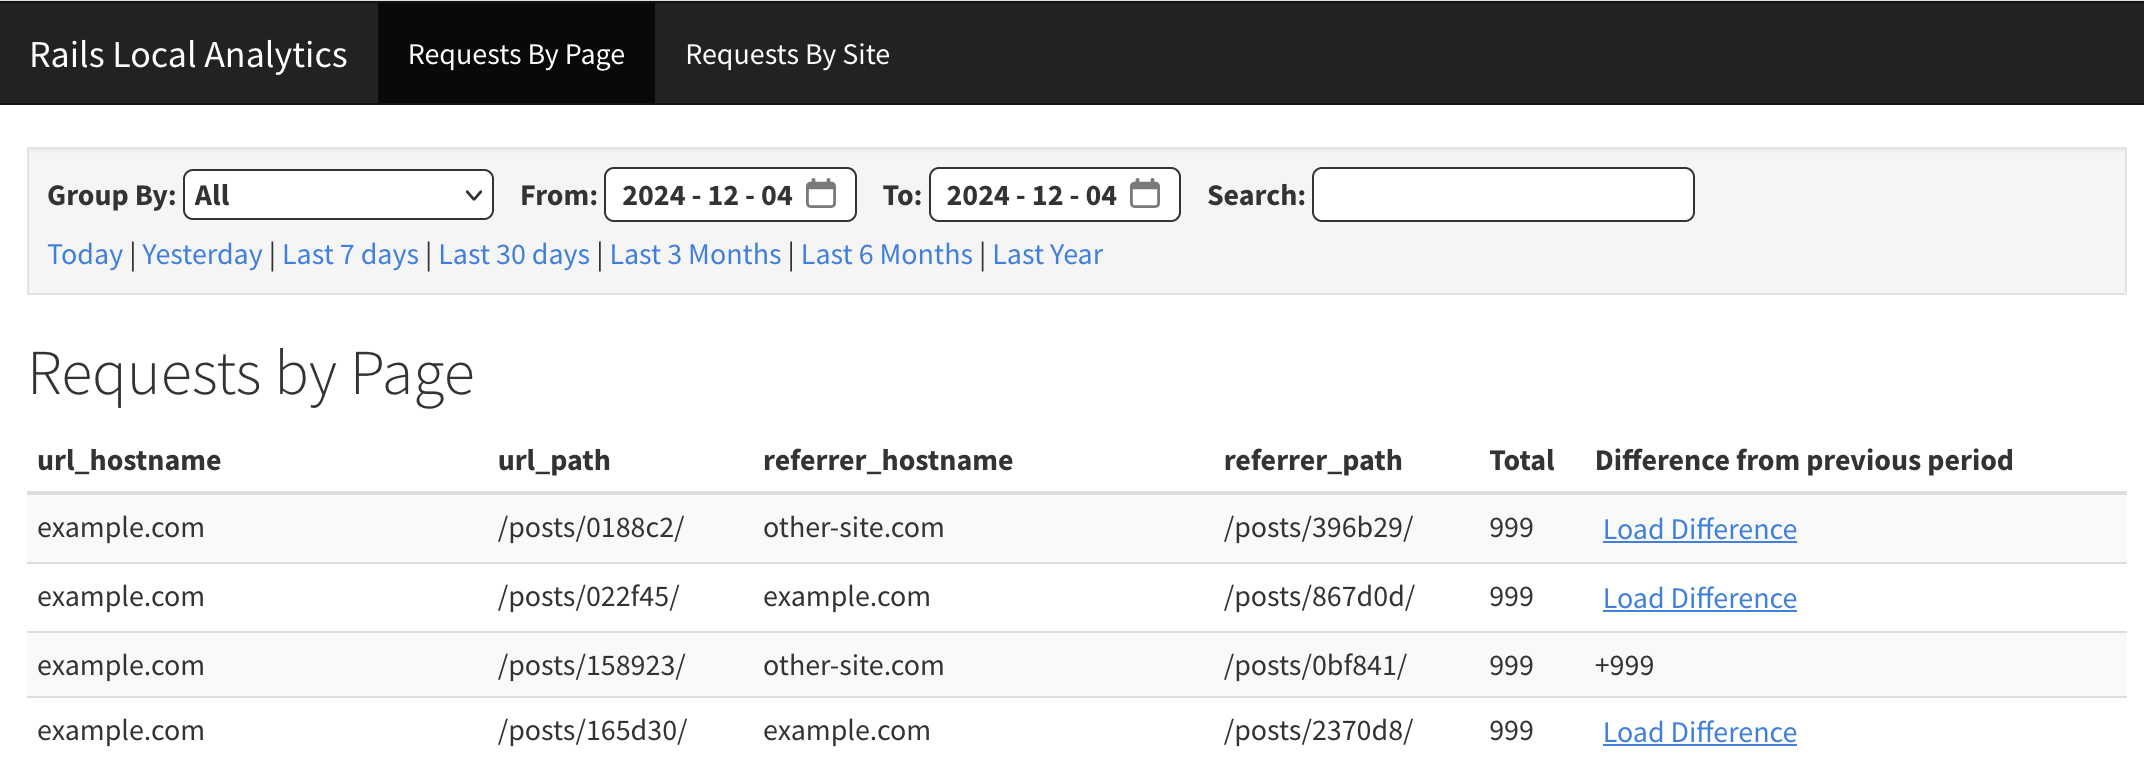
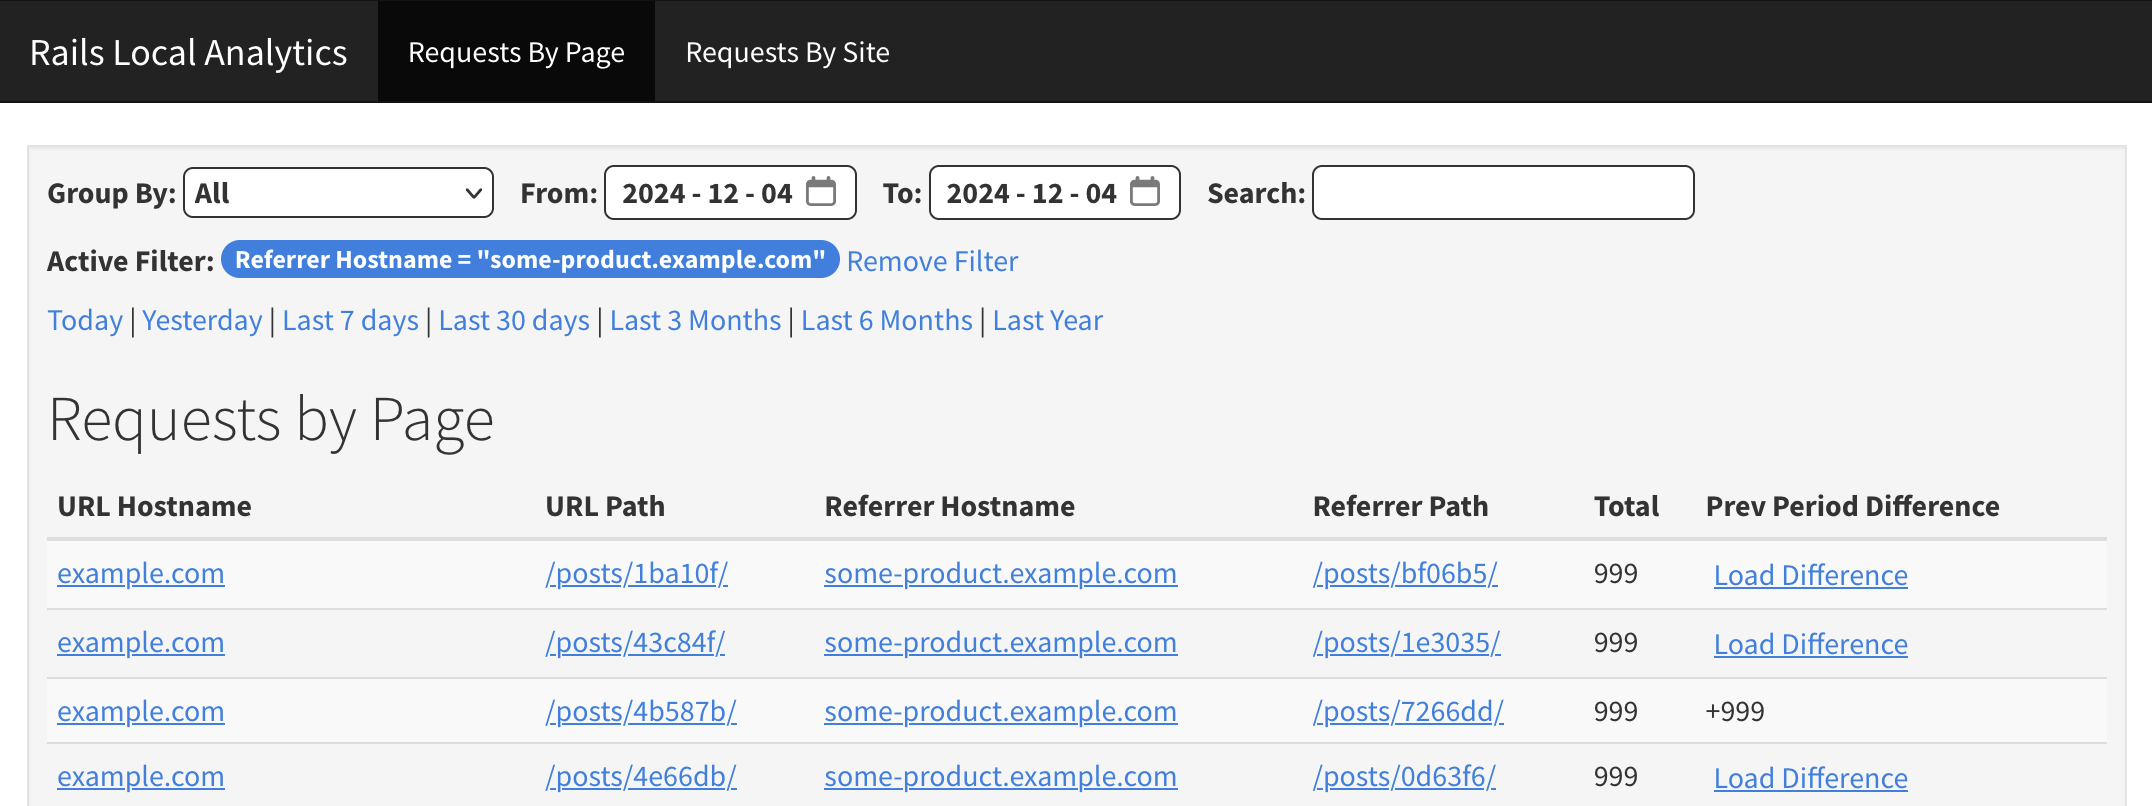
Add ability to filter on specific field/value combos (#11)

diff --git a/spec/request/dashboard_controller_spec.rb b/spec/request/dashboard_controller_spec.rb
@@ -66,12 +66,55 @@ RSpec.describe RailsLocalAnalytics::DashboardController, type: :request do
       expect(response.status).to eq(200)
     end
 
-    it "renders with group_by param" do
-      get rails_local_analytics.tracked_requests_path(type: :site, group_by: "platform")
-      expect(response.status).to eq(200)
+    context "params[:group_by]" do
+      it "raises error when field name is invalid" do
+        expect {
+          get rails_local_analytics.tracked_requests_path(type: :site, filter: "id==some-value")
+        }.to raise_error(ArgumentError)
+      end
 
-      get rails_local_analytics.tracked_requests_path(type: :page, group_by: "referrer_path")
-      expect(response.status).to eq(200)
+      it "renders" do
+        get rails_local_analytics.tracked_requests_path(type: :site, group_by: "platform")
+        expect(response.status).to eq(200)
+
+        get rails_local_analytics.tracked_requests_path(type: :page, group_by: "referrer_path")
+        expect(response.status).to eq(200)
+      end
+    end
+
+    context "params[:filter]" do
+      it "raises error when field name is invalid" do
+        expect {
+          get rails_local_analytics.tracked_requests_path(type: :site, filter: "id==some-value")
+        }.to raise_error(ArgumentError)
+      end
+
+      it "filters on specific field/value combos" do
+        klass = TrackedRequestsByDaySite
+
+        col = klass.display_columns.first
+
+        klass.create!(
+          day: Date.today,
+          col => "some-value",
+          platform: "foo",
+        )
+
+        klass.create!(
+          day: Date.today,
+          col => "foo",
+        )
+
+        klass.create!(
+          day: Date.today,
+          col => "some-value",
+          platform: "bar",
+        )
+
+        get rails_local_analytics.tracked_requests_path(type: :site, filter: "#{col}==some-value")
+        expect(response.status).to eq(200)
+        expect(assigns(:results).map(&:first)).to eq(["some-value", "some-value"])
+      end
     end
   end
 

diff --git a/app/controllers/rails_local_analytics/dashboard_controller.rb b/app/controllers/rails_local_analytics/dashboard_controller.rb
@@ -18,7 +18,7 @@ module RailsLocalAnalytics
       end
 
       if params[:group_by].present? && !@klass.display_columns.include?(params[:group_by])
-        params[:group_by] = nil
+        raise ArgumentError
       end
 
       if params[:start_date].present?
@@ -100,6 +100,16 @@ module RailsLocalAnalytics
         tracked_requests = tracked_requests
           .limit(PER_PAGE_LIMIT)
           .offset(PER_PAGE_LIMIT * (pagination_page_number-1))
+
+        if params[:filter].present?
+          col, val = params[:filter].split("==")
+
+          if @klass.display_columns.include?(col)
+            tracked_requests = tracked_requests.where(col => val)
+          else
+            raise ArgumentError
+          end
+        end
       end
 
       if where_conditions

diff --git a/CHANGELOG.md b/CHANGELOG.md
@@ -2,6 +2,7 @@
 
 ### Unreleased
 - [View Diff](https://github.com/westonganger/rails_local_analytics/compare/v0.2.0...master)
+- [#11](https://github.com/westonganger/rails_local_analytics/pull/11) - Add ability to filter on specific field/value combos
 - [#10](https://github.com/westonganger/rails_local_analytics/pull/10) - Dont use `Integer#to_fs` as its not available in Rails 6.x
 
 ### v0.2.0 - Dec 4 2024
